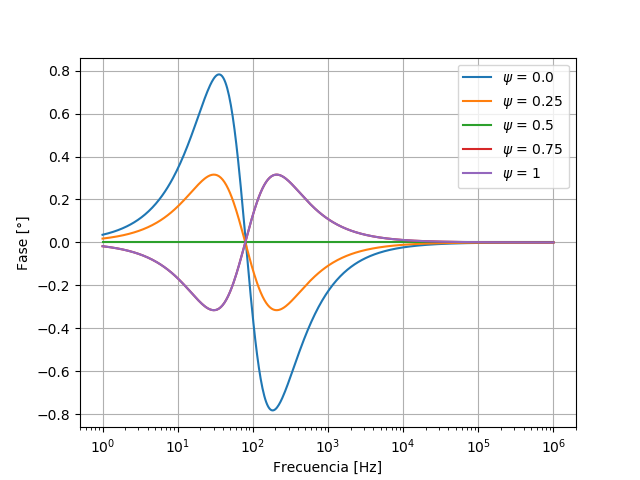
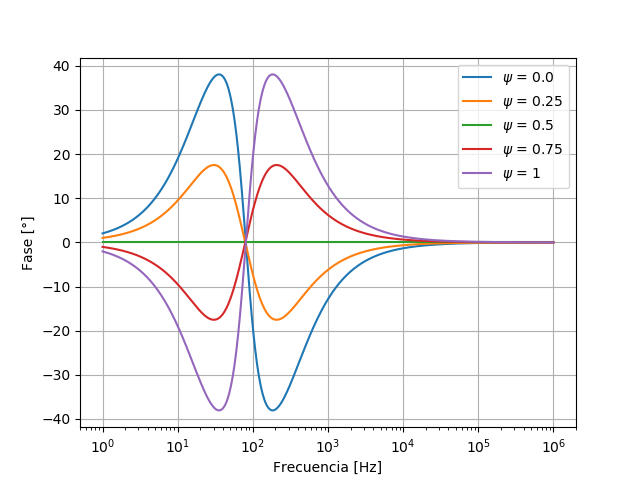
Guido, si lees esto quiero que sepas que Ricardo Milos te ama

diff --git a/TP3/Ej5/Ecuaciones y Graficos/Ejercicio5.tex b/TP3/Ej5/Ecuaciones y Graficos/Ejercicio5.tex
@@ -268,13 +268,27 @@ Es así que, definiendo: $Z_{AC}^{'} = Z_{AC} // R_3 $, $Z_{BC}^{'} = Z_{AC} // 
 \begin{aligned}
 		& V_{out} = A_o \left( V^+ - V^- \right) =  -A_o V^- \\
 		& V_{in} - Z_{AC}^{'} \ I_{C} = V^- \\
-		& V^- = V_{in} - Z_{BC}^{'} \ I_{C} \\
-		& V_{in} - Z_{AB} \ I_{B} = V_{out} 
+		& V^- - Z_{BC}^{'} \ I_{C} = V_{out}
 \end{aligned}
 \right.
 \end{equation*}
 
 Resolviendo el sistema previamente planteado, se llega a que la transferencia del circuito de la Figura (\ref{fig:paralelo}) corresponde a la de un amplificador inversor, por lo tanto, considerando (\ref{equ:r2p}), se obtiene:
+
+\begin{equation*}
+	H(S) = \frac{1}{\frac{Z_{BC}^{'}}{Z_{AC}^{'}} {A_{vol}\left(S\right)}^{-1} - \frac{Z_{BC}^{'}}{Z_{AC}^{'}} - {A_{vol}\left(S\right)}^{-1}} = \frac{1}{\frac{Z_{BC}^{'}}{Z_{AC}^{'}} \frac{1 + \frac{S}{\omega_o}}{A_{vol}} - \frac{Z_{BC}^{'}}{Z_{AC}^{'}} - \frac{1 + \frac{S}{\omega_o}}{A_{vol}}}
+	\label{equ:hsavol}
+\end{equation*}
+
+Tomando $\omega_o \rightarrow \infty$ se llega a
+
+\begin{equation*}
+	H(S) = \frac{1}{\frac{Z_{BC}^{'}}{Z_{AC}^{'}} {A_{vol}}^{-1} - \frac{Z_{BC}^{'}}{Z_{AC}^{'}} - {A_{vol}}^{-1}}
+	\label{equ:hsavol}
+\end{equation*}
+
+Nuevamente, considerando $A_o \rightarrow \infty$ se obtiene
+
 \begin{equation}
 	H(s) = -\frac{Z_{BC}^{'}}{Z_{AC}^{'}} = - \frac{\alpha_H S^{2} + \beta_H S + 2 R_{1} + R_{2}}
 	{\gamma_H S^{2} + \delta_H S + 2 R_{1} + R_{2}}
@@ -405,10 +419,6 @@ Alta & $100 \ \Omega$ & $1 \ k\Omega$ & $10 \ k\Omega$ & $56 \ nF$ & $5,6 \ nF$ 
 Una vez determinado esto, se optó por colocar las tres instancias en serie, ya que de esta forma se aprovecha mejor la amplificación de cada una, debido al hecho de que cada etapa solo amplifica o atenúa en un rango de frecuencias dadas, mientras que fuera de dicho rango, no se ven afectadas. Además, se buscó reproducir los valores de amplificación de ecualizadores comerciales, los cuales se encuentran entre $\pm 12 \ db$ y $\pm 15 \ db$.
 En consecuencia, la transferencia total del circuito resulta del producto de la de cada etapa, obtenida de reemplazar los valores mostrados en la Tabla (\ref{tabla:valores}) en (\ref{equ:hs}), mientras que la impedancia de entrada total del sistema resulta de la suma de cada impedancia de entrada, obteniendo esta de la misma forma que la tranferencia, es decir, tomando nuevamente los valores de la tabla previamente mencionada y reemplazandola en (\ref{equ:zin}). Es así que se procede a graficar la respuesta en frecuencia de todo el circuito, variando el factor $\psi$ para una instancia por vez, fijando los demás en $0,5$.
 
-\begin{center}
-\textcolor{red}{\textbf{VER EJE DE FASES.}}
-\end{center}
-
 \begin{figure}[H]
 \centering
 	\includegraphics[width=0.9\textwidth]{Imagenes/Low-psi-bode.png}
@@ -455,11 +465,48 @@ En consecuencia, la transferencia total del circuito resulta del producto de la 
 \textcolor{red}{\textbf{PONER ALGUNA CONCLUSIÓN U OBSERVACIÓN.}}
 \end{center}
 
-De la misma forma, se muestra la impedancia de entrada de cada ...
+De la misma forma, se muestra la impedancia de entrada en función de la frecuencia para el circuito total. Debido a que se colocaron las tres instancias en serie, Z_{In_{T}} es la suma de impedancia de cada instancia.
 
-\begin{center}
-\textcolor{red}{\textbf{CALCULÉ LA ZIN DE CADA UNO POR SEPARADO!.}}
-\end{center}
+\begin{figure}[H]
+\centering
+	\includegraphics[width=0.9\textwidth]{Imagenes/Zin-Low-Mod.png}
+	\caption{Impedancia de entrada en modulo, variando $\psi$ de las frecuencias bajas.}
+	\label{fig:bode_modulo_low}
+\end{figure}
 
+\begin{figure}[H]
+\centering
+	\includegraphics[width=0.9\textwidth]{Imagenes/Zin-Low-Ph.png}
+	\caption{Fase de la impedancia de entrada, variando $\psi$ de las frecuencias bajas.}
+	\label{fig:bode_ph_low}
+\end{figure}
+
+\begin{figure}[H]
+\centering
+	\includegraphics[width=0.9\textwidth]{Imagenes/Zin-Med-Mod.png}
+	\caption{Impedancia de entrada en modulo, variando $\psi$ de las frecuencias medias.}
+	\label{fig:bode_modulo_low}
+\end{figure}
+
+\begin{figure}[H]
+\centering
+	\includegraphics[width=0.9\textwidth]{Imagenes/Zin-Med-Ph.png}
+	\caption{Fase de la impedancia de entrada, variando $\psi$ de las frecuencias medias.}
+	\label{fig:bode_ph_low}
+\end{figure}
+
+\begin{figure}[H]
+\centering
+	\includegraphics[width=0.9\textwidth]{Imagenes/Zin-High-Mod.png}
+	\caption{Impedancia de entrada en modulo, variando $\psi$ de las frecuencias altas.}
+	\label{fig:bode_modulo_low}
+\end{figure}
+
+\begin{figure}[H]
+\centering
+	\includegraphics[width=0.9\textwidth]{Imagenes/Zin-High-Ph.png}
+	\caption{Fase de la impedancia de entrada, variando $\psi$ de las frecuencias altas.}
+	\label{fig:bode_ph_low}
+\end{figure}
 
 \end{document}
